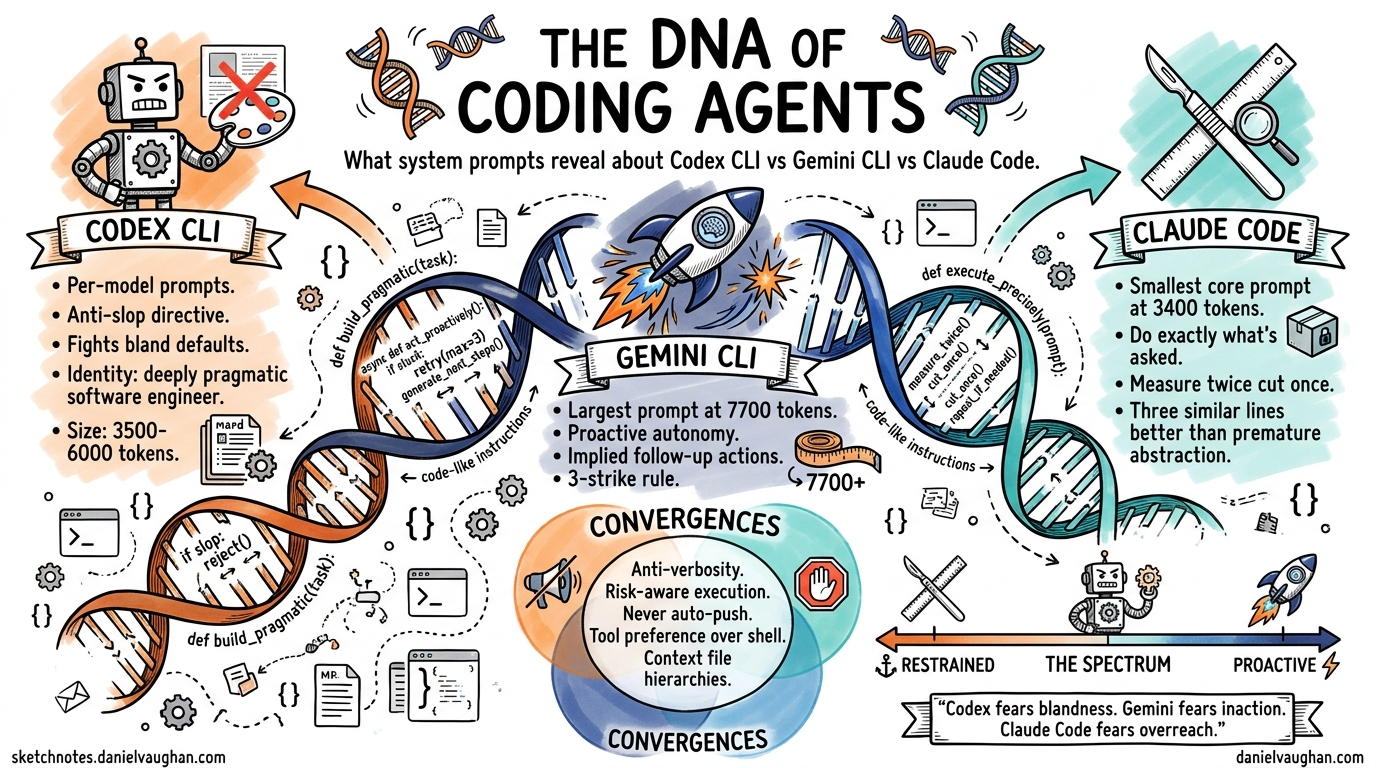
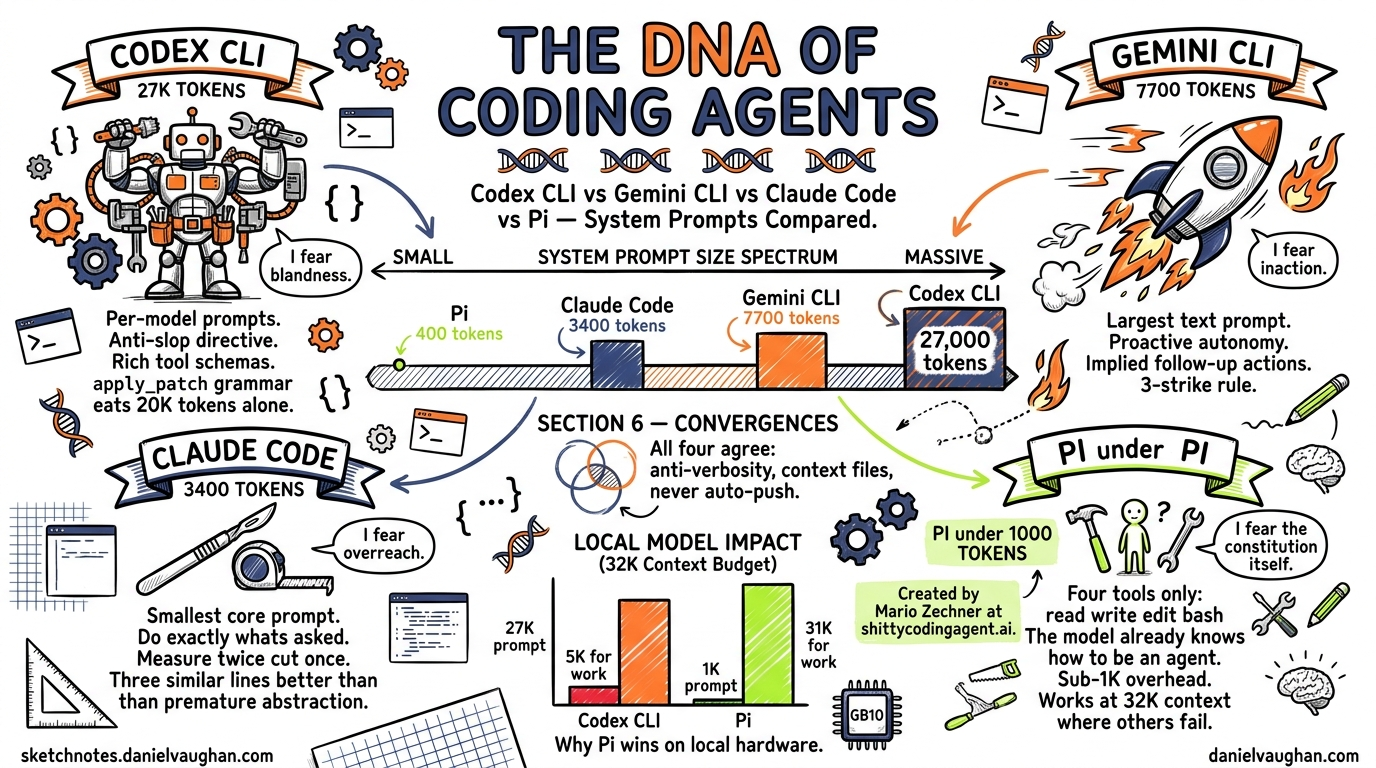
chore: sync from codex-resources@43f33df

diff --git a/_posts/2026-04-19-system-prompts-compared-codex-gemini-claude-code.md b/_posts/2026-04-19-system-prompts-compared-codex-gemini-claude-code.md
@@ -7,6 +7,8 @@ description: "Four open-source coding CLIs ship their system prompts publicly. F
 
 # The DNA of Coding Agents: Codex CLI vs Gemini CLI vs Claude Code vs Pi — System Prompts Compared
 
+![Sketchnote diagram for: The DNA of Coding Agents: Codex CLI vs Gemini CLI vs Claude Code vs Pi — System Prompts Compared](/sketchnotes/articles/system-prompts-compared.png)
+
 The system prompt is the soul of a coding agent. It is the document that transforms a general-purpose language model into an opinionated software engineer — one that knows when to be ambitious and when to be surgical, when to ask permission and when to press on, when to write tests and when to leave well enough alone.
 
 The four major open-source coding CLIs — OpenAI's Codex CLI, Google's Gemini CLI, Anthropic's Claude Code, and Mario Zechner's Pi — all ship their system prompts in public repositories. This article dissects all four, compares their philosophies, and examines what these instructions tell us about the future of AI-assisted software engineering.
